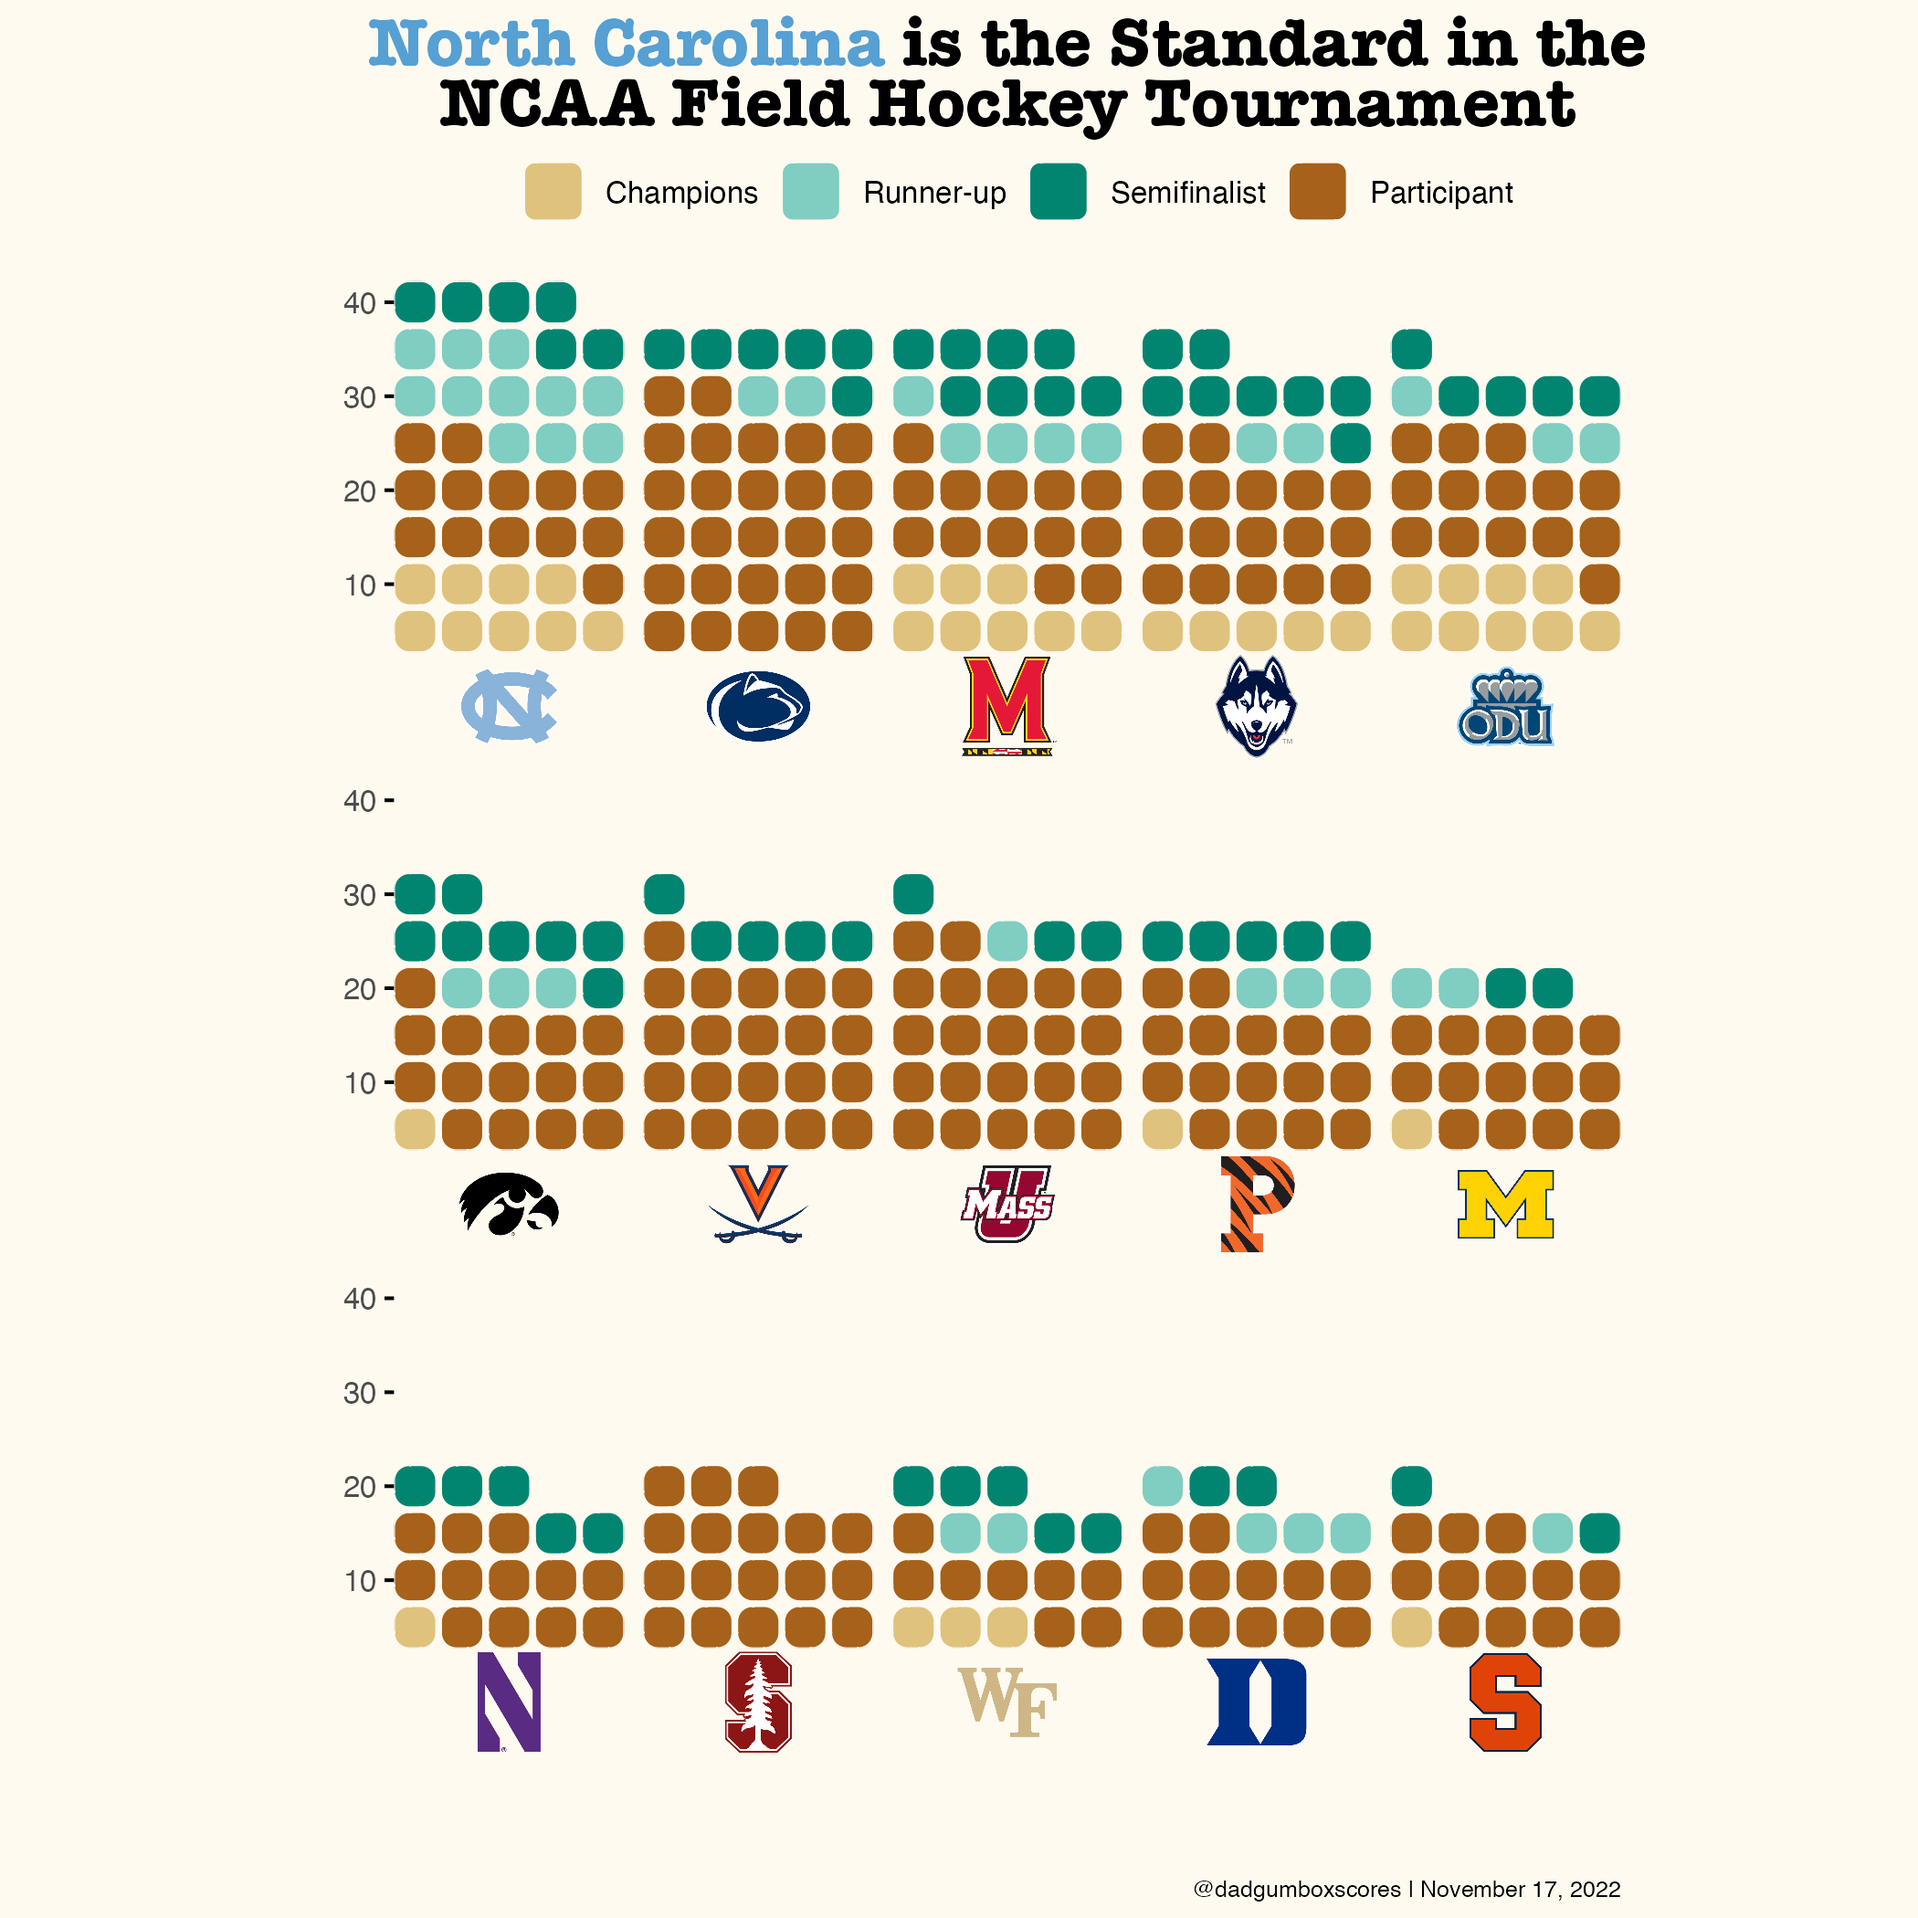
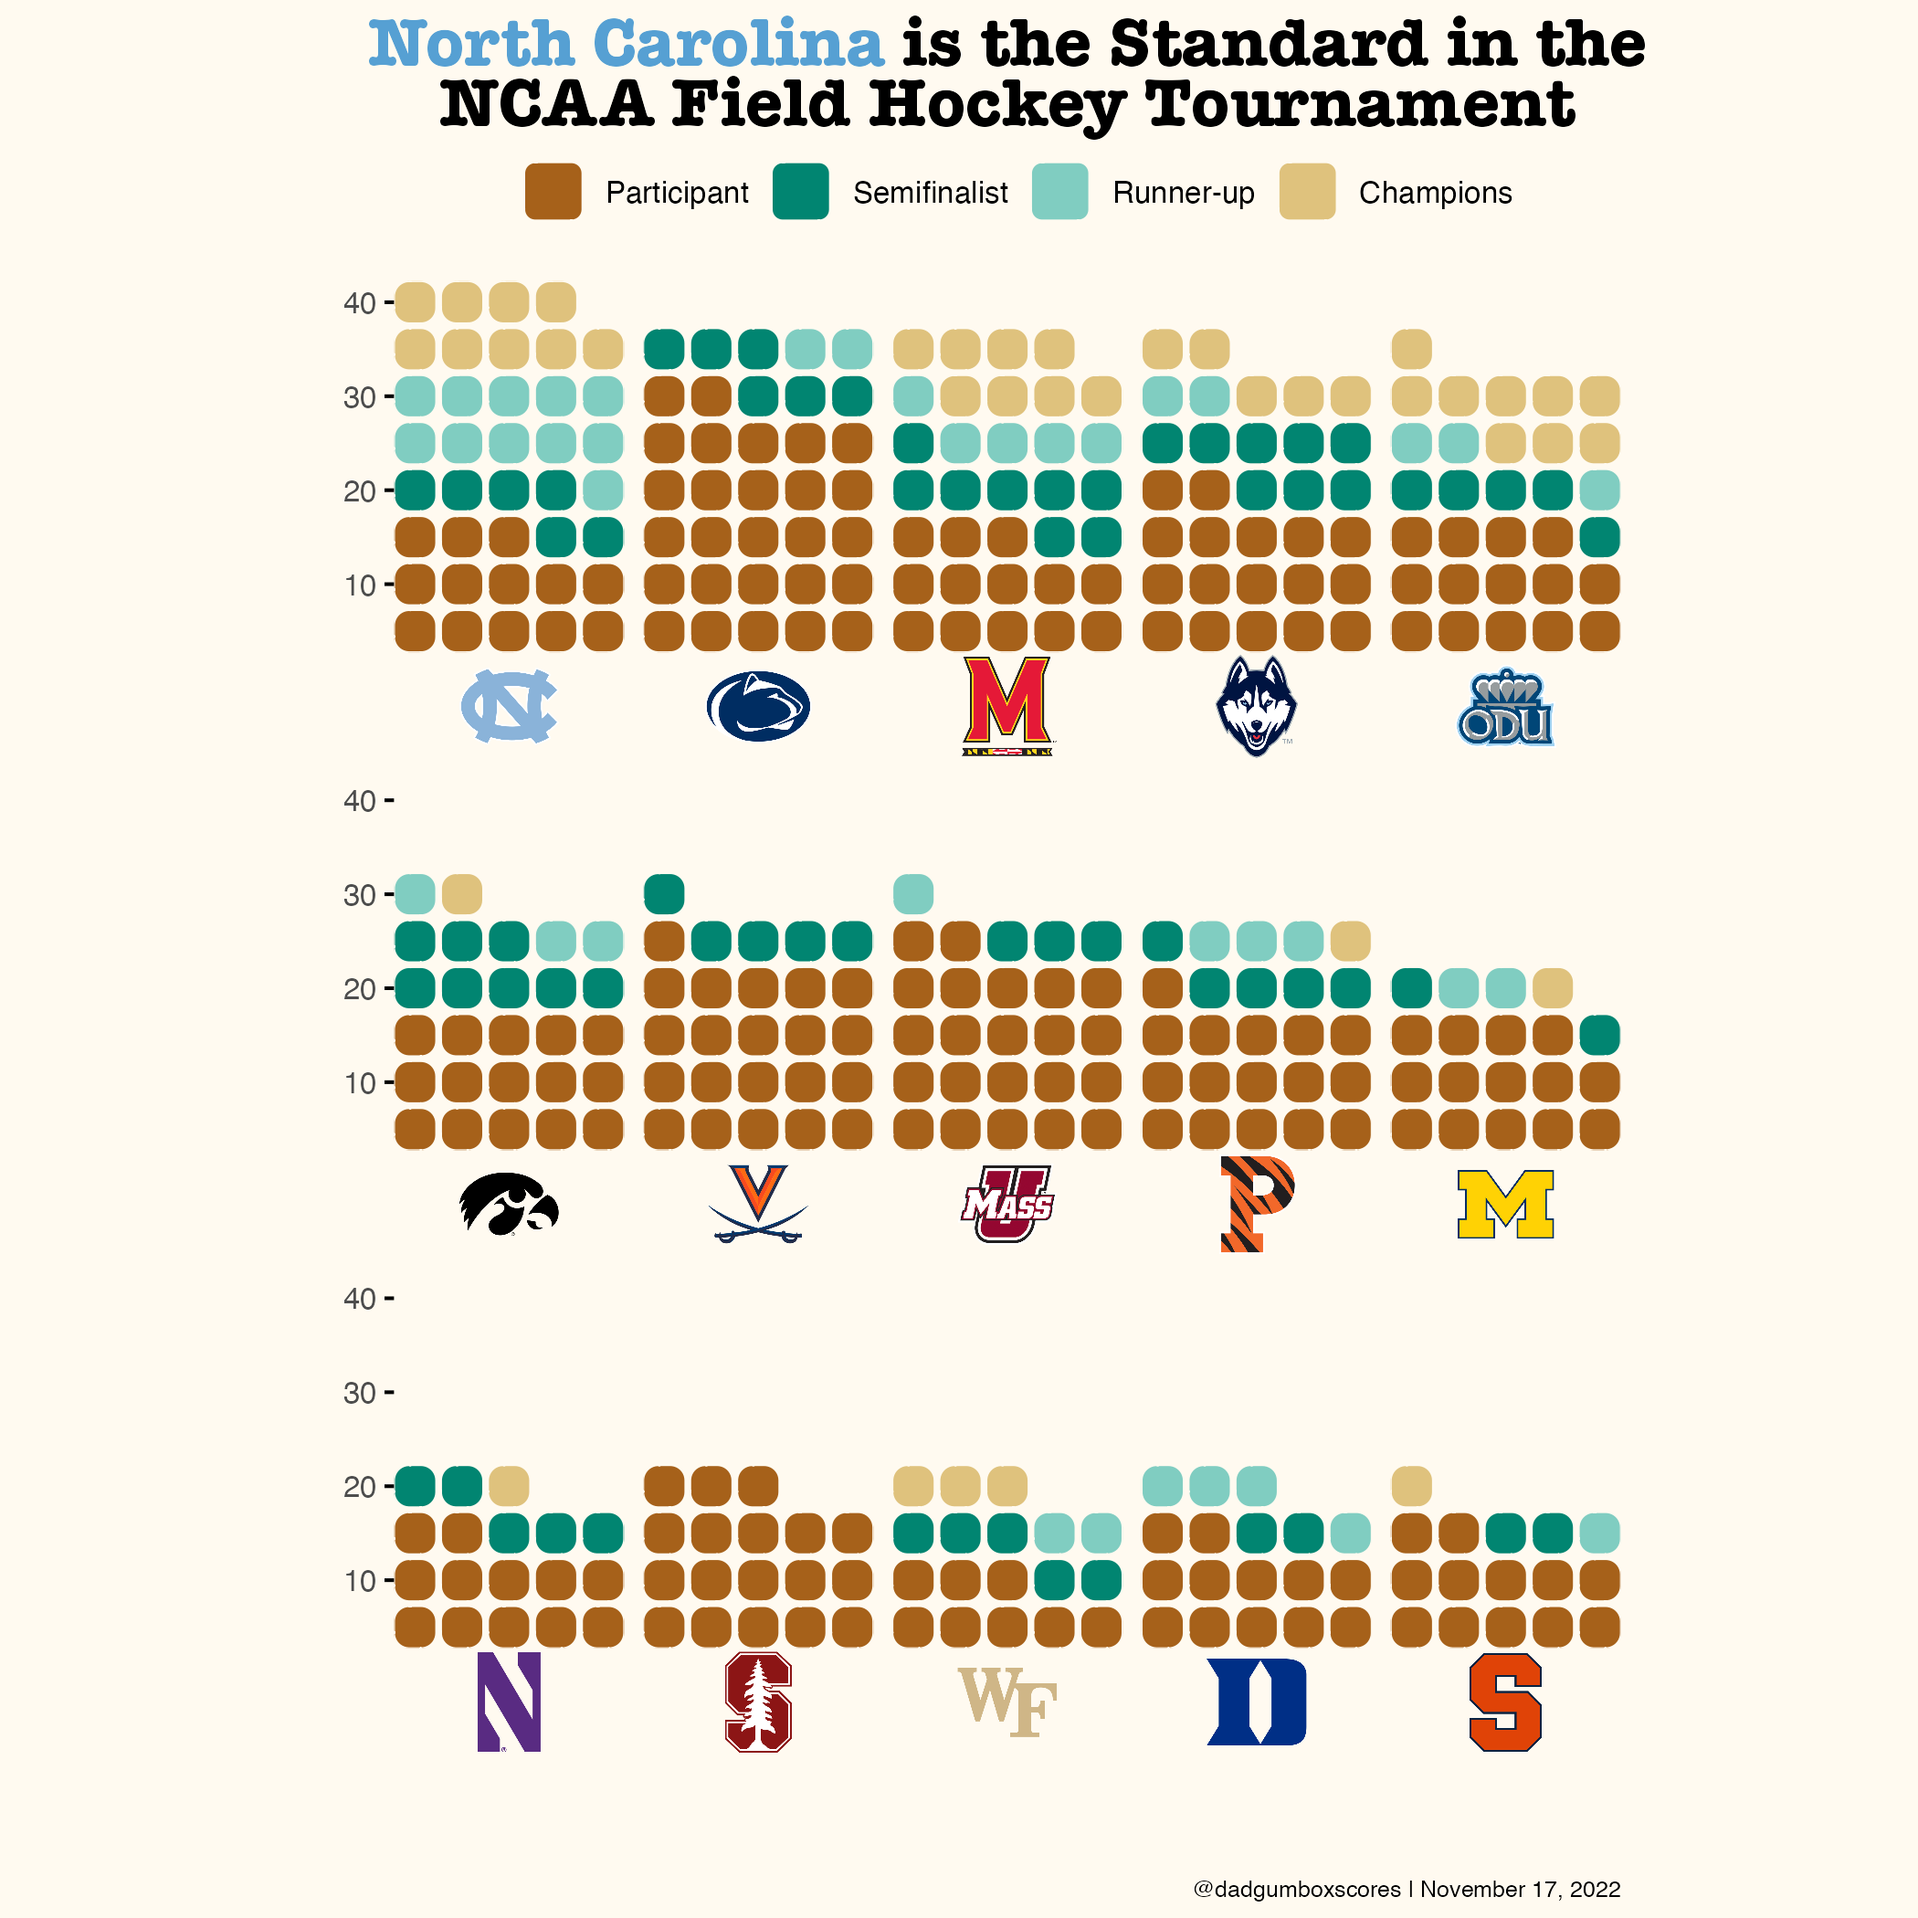
byc-changes

diff --git a/byc_002/byc-002_fh_standard.html b/byc_002/byc-002_fh_standard.html
@@ -163,10 +163,10 @@ dbl  (1): App
 <span id="cb4-7"><a href="#cb4-7" aria-hidden="true" tabindex="-1"></a>      <span class="fu">filter</span>(finish <span class="sc">!=</span> <span class="st">"Missed Tournament"</span>) <span class="sc">%&gt;%</span></span>
 <span id="cb4-8"><a href="#cb4-8" aria-hidden="true" tabindex="-1"></a>      <span class="fu">filter</span>(Schools <span class="sc">!=</span> <span class="st">"Northeastern"</span>) <span class="sc">%&gt;%</span></span>
 <span id="cb4-9"><a href="#cb4-9" aria-hidden="true" tabindex="-1"></a>       <span class="fu">mutate</span>(<span class="at">finish =</span> <span class="fu">case_when</span>( </span>
-<span id="cb4-10"><a href="#cb4-10" aria-hidden="true" tabindex="-1"></a>        finish <span class="sc">%in%</span> <span class="fu">c</span>(<span class="st">"•"</span>, <span class="st">"16"</span>, <span class="st">"12"</span>, <span class="st">"QF"</span>) <span class="sc">~</span> <span class="st">"Participant"</span>,</span>
-<span id="cb4-11"><a href="#cb4-11" aria-hidden="true" tabindex="-1"></a>        finish <span class="sc">==</span> <span class="st">"CH"</span> <span class="sc">~</span> <span class="st">"Champions"</span>,</span>
-<span id="cb4-12"><a href="#cb4-12" aria-hidden="true" tabindex="-1"></a>        finish <span class="sc">==</span> <span class="st">"SF"</span> <span class="sc">~</span> <span class="st">"Semifinalist"</span>,</span>
-<span id="cb4-13"><a href="#cb4-13" aria-hidden="true" tabindex="-1"></a>        finish <span class="sc">==</span> <span class="st">"RU"</span> <span class="sc">~</span> <span class="st">"Runner-up"</span>,</span>
+<span id="cb4-10"><a href="#cb4-10" aria-hidden="true" tabindex="-1"></a>        finish <span class="sc">%in%</span> <span class="fu">c</span>(<span class="st">"•"</span>, <span class="st">"16"</span>, <span class="st">"12"</span>, <span class="st">"QF"</span>) <span class="sc">~</span> <span class="st">"0"</span>,</span>
+<span id="cb4-11"><a href="#cb4-11" aria-hidden="true" tabindex="-1"></a>        finish <span class="sc">==</span> <span class="st">"CH"</span> <span class="sc">~</span> <span class="st">"3"</span>,</span>
+<span id="cb4-12"><a href="#cb4-12" aria-hidden="true" tabindex="-1"></a>        finish <span class="sc">==</span> <span class="st">"SF"</span> <span class="sc">~</span> <span class="st">"1"</span>,</span>
+<span id="cb4-13"><a href="#cb4-13" aria-hidden="true" tabindex="-1"></a>        finish <span class="sc">==</span> <span class="st">"RU"</span> <span class="sc">~</span> <span class="st">"2"</span>,</span>
 <span id="cb4-14"><a href="#cb4-14" aria-hidden="true" tabindex="-1"></a>        <span class="cn">TRUE</span> <span class="sc">~</span> finish</span>
 <span id="cb4-15"><a href="#cb4-15" aria-hidden="true" tabindex="-1"></a>      )) </span>
 <span id="cb4-16"><a href="#cb4-16" aria-hidden="true" tabindex="-1"></a></span>
@@ -227,9 +227,9 @@ dbl  (1): App
 <span id="cb6-7"><a href="#cb6-7" aria-hidden="true" tabindex="-1"></a>    <span class="fu">scale_y_continuous</span>(<span class="at">labels =</span> <span class="fu">c</span>(<span class="dv">0</span>, <span class="dv">10</span>, <span class="dv">20</span>, <span class="dv">30</span>, <span class="dv">40</span>),</span>
 <span id="cb6-8"><a href="#cb6-8" aria-hidden="true" tabindex="-1"></a>                       <span class="at">expand =</span> <span class="fu">c</span>(<span class="dv">0</span>,<span class="dv">0</span>)) <span class="sc">+</span></span>
 <span id="cb6-9"><a href="#cb6-9" aria-hidden="true" tabindex="-1"></a>    <span class="fu">scale_fill_manual</span>(<span class="st">""</span>,</span>
-<span id="cb6-10"><a href="#cb6-10" aria-hidden="true" tabindex="-1"></a>                      <span class="at">values=</span><span class="fu">c</span>(<span class="st">'Champions'</span><span class="ot">=</span><span class="st">'#dfc27d'</span>,<span class="st">'Runner-up'</span><span class="ot">=</span><span class="st">'#80cdc1'</span>,<span class="st">'Semifinalist'</span><span class="ot">=</span><span class="st">'#018571'</span>,<span class="st">'Participant'</span><span class="ot">=</span><span class="st">'#a6611a'</span>),</span>
-<span id="cb6-11"><a href="#cb6-11" aria-hidden="true" tabindex="-1"></a>                      <span class="at">breaks=</span><span class="fu">c</span>(<span class="st">"Champions"</span>, <span class="st">"Runner-up"</span>, <span class="st">"Semifinalist"</span>, <span class="st">"Participant"</span>),</span>
-<span id="cb6-12"><a href="#cb6-12" aria-hidden="true" tabindex="-1"></a>                      <span class="at">labels=</span><span class="fu">c</span>(<span class="st">"Champions"</span>, <span class="st">"Runner-up"</span>, <span class="st">"Semifinalist"</span>, <span class="st">"Participant"</span>)) <span class="sc">+</span></span>
+<span id="cb6-10"><a href="#cb6-10" aria-hidden="true" tabindex="-1"></a>                      <span class="at">values=</span><span class="fu">c</span>(<span class="st">"0"</span><span class="ot">=</span><span class="st">"#a6611a"</span>, <span class="st">"1"</span><span class="ot">=</span><span class="st">"#018571"</span>, <span class="st">"2"</span><span class="ot">=</span><span class="st">"#80cdc1"</span>, <span class="st">"3"</span><span class="ot">=</span><span class="st">"#dfc27d"</span>),</span>
+<span id="cb6-11"><a href="#cb6-11" aria-hidden="true" tabindex="-1"></a>                      <span class="at">breaks=</span><span class="fu">c</span>(<span class="st">"0"</span>, <span class="st">"1"</span>, <span class="st">"2"</span>, <span class="st">"3"</span>),</span>
+<span id="cb6-12"><a href="#cb6-12" aria-hidden="true" tabindex="-1"></a>                      <span class="at">labels=</span><span class="fu">c</span>(<span class="st">"Participant"</span>, <span class="st">"Semifinalist"</span>, <span class="st">"Runner-up"</span>, <span class="st">"Champions"</span>)) <span class="sc">+</span></span>
 <span id="cb6-13"><a href="#cb6-13" aria-hidden="true" tabindex="-1"></a>    <span class="fu">coord_equal</span>() <span class="sc">+</span></span>
 <span id="cb6-14"><a href="#cb6-14" aria-hidden="true" tabindex="-1"></a>    <span class="fu">labs</span>(</span>
 <span id="cb6-15"><a href="#cb6-15" aria-hidden="true" tabindex="-1"></a>        <span class="at">title =</span> <span class="st">"&lt;span style='color:#56a0d3;'&gt;North Carolina&lt;/span&gt; is the Standard in the  </span><span class="sc">\n</span><span class="st">NCAA Field Hockey Tournament"</span>,</span>
